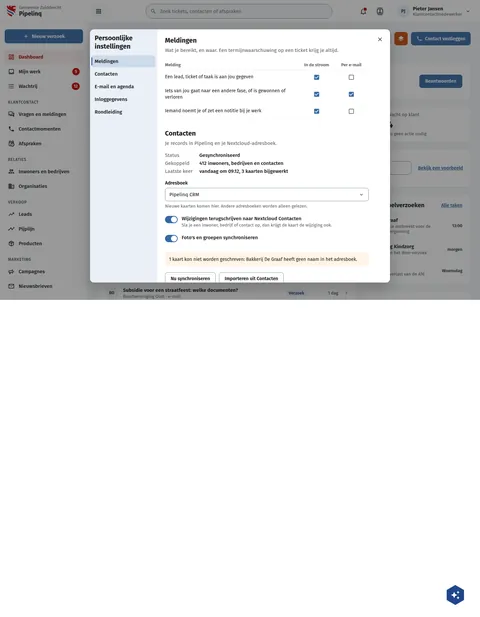
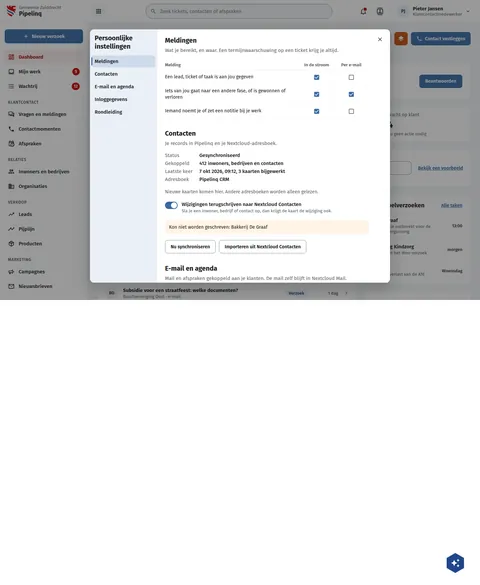
fix(screens): PqPersoonlijk's Contacts section as pipelinq builds it
The addressbook is a fact, not a choice; the photos-and-groups switch goes
(no such sync exists); the failed-card note and the import button read as
the section does.

Assisted-by: ClaudeCode:claude-opus-5-5

Changed region(s): [[0.0, 0.0, 1.0, 0.5231], [0.7188, 0.0923, 0.75, 0.1846], [0.9375, 0.9231, 0.9688, 0.9846]]

diff --git a/preview/screens/boards/PqPersoonlijk.html b/preview/screens/boards/PqPersoonlijk.html
@@ -280,7 +280,7 @@ a{color:var(--sc-primary, #3669a5)}a:hover{color:var(--sc-primary-deep, #234a78)
             
             
             
-              <dl style="margin: 0; display: grid; grid-template-columns: max-content 1fr; gap: 6px 20px; font-size: 15px"><dt style="color: var(--sc-work-muted, #5e6168)">Status</dt><dd style="margin: 0; font-weight: 500">Gesynchroniseerd</dd><dt style="color: var(--sc-work-muted, #5e6168)">Gekoppeld</dt><dd style="margin: 0; font-weight: 500">412 inwoners, bedrijven en contacten</dd><dt style="color: var(--sc-work-muted, #5e6168)">Laatste keer</dt><dd style="margin: 0; font-weight: 500">vandaag om 09.12, 3 kaarten bijgewerkt</dd></dl>
+              <dl style="margin: 0; display: grid; grid-template-columns: max-content 1fr; gap: 6px 20px; font-size: 15px"><dt style="color: var(--sc-work-muted, #5e6168)">Status</dt><dd style="margin: 0; font-weight: 500">Gesynchroniseerd</dd><dt style="color: var(--sc-work-muted, #5e6168)">Gekoppeld</dt><dd style="margin: 0; font-weight: 500">412 inwoners, bedrijven en contacten</dd><dt style="color: var(--sc-work-muted, #5e6168)">Laatste keer</dt><dd style="margin: 0; font-weight: 500">7 okt 2026, 09:12, 3 kaarten bijgewerkt</dd><dt style="color: var(--sc-work-muted, #5e6168)">Adresboek</dt><dd style="margin: 0; font-weight: 500">Pipelinq CRM</dd></dl>
             
             
             
@@ -289,7 +289,6 @@ a{color:var(--sc-primary, #3669a5)}a:hover{color:var(--sc-primary-deep, #234a78)
             
             
             
-              <div style="display: flex; flex-direction: column; gap: 6px"><span style="font-size: 14px; font-weight: 600">Adresboek</span><div role="combobox" aria-expanded="false" aria-disabled="False" aria-label="Adresboek" style="display: flex; align-items: center; justify-content: space-between; gap: 8px; height: 40px; box-sizing: border-box; padding: 0 12px; border: 1px solid var(--sc-work-field, #828a95); border-radius: 8px; background: #ffffff; font-size: 15px"><span style="overflow: hidden; text-overflow: ellipsis; white-space: nowrap">Pipelinq CRM</span><svg width="18" height="18" viewbox="0 0 24 24" fill="#3d4047" aria-hidden="true" style="flex: none;fill:var(--sc-work-text, #3d4047)"><path d="M7.41,8.58L12,13.17L16.59,8.58L18,10L12,16L6,10L7.41,8.58Z"></path></svg></div><span style="font-size: 13px; color: var(--sc-work-muted, #5e6168); line-height: 1.45">Nieuwe kaarten komen hier. Andere adresboeken worden alleen gelezen.</span></div>
             
             
             
@@ -298,6 +297,7 @@ a{color:var(--sc-primary, #3669a5)}a:hover{color:var(--sc-primary-deep, #234a78)
             
             
             
+              <p style="margin: 0; padding: 10px 12px; border-radius: 8px; font-size: 14px; line-height: 1.5; padding: 0; color: var(--sc-work-muted, #5e6168)">Nieuwe kaarten komen hier. Andere adresboeken worden alleen gelezen.</p>
             
             
           
@@ -317,7 +317,6 @@ a{color:var(--sc-primary, #3669a5)}a:hover{color:var(--sc-primary-deep, #234a78)
             
           
             
-              <label style="min-height: 36px; display: flex; gap: 12px; align-items: flex-start"><input type="checkbox" role="switch" checked style="position: absolute; opacity: 0; width: 1px; height: 1px"><span aria-hidden="true" style="flex: none; display: inline-flex; align-items: center; width: 38px; height: 22px; border-radius: 11px; margin-top: 1px; background: var(--sc-primary, #3669a5); justify-content: flex-end"><span style="width: 18px; height: 18px; border-radius: 9px; background: #ffffff; margin: 0 2px"></span></span><span style="display: flex; flex-direction: column; gap: 2px"><span style="font-size: 15px; font-weight: 500">Foto's en groepen synchroniseren</span></span></label>
             
             
             
@@ -328,21 +327,7 @@ a{color:var(--sc-primary, #3669a5)}a:hover{color:var(--sc-primary-deep, #234a78)
             
             
             
-            
-            
-          
-            
-            
-            
-            
-            
-            
-            
-            
-            
-            
-            
-              <p style="margin: 0; padding: 10px 12px; border-radius: 8px; font-size: 14px; line-height: 1.5; background: #fff4e5; color: var(--sc-work-ink, #1b1c1d)">1 kaart kon niet worden geschreven: Bakkerij De Graaf heeft geen naam in het adresboek.</p>
+              <p style="margin: 0; padding: 10px 12px; border-radius: 8px; font-size: 14px; line-height: 1.5; background: #fff4e5; color: var(--sc-work-ink, #1b1c1d)">Kon niet worden geschreven: Bakkerij De Graaf</p>
             
             
           
@@ -358,7 +343,7 @@ a{color:var(--sc-primary, #3669a5)}a:hover{color:var(--sc-primary-deep, #234a78)
             
             
             
-              <div style="display: flex; flex-wrap: wrap; gap: 10px"><button type="button" style="display: inline-flex; align-items: center; height: 40px; box-sizing: border-box; padding: 0 16px; border-radius: 8px; font: 600 14px var(--sc-font, 'Fira Sans'), sans-serif; white-space: nowrap; border: 1px solid var(--sc-work-field, #828a95); background: #ffffff; color: var(--sc-work-ink, #1b1c1d)">Nu synchroniseren</button><button type="button" style="display: inline-flex; align-items: center; height: 40px; box-sizing: border-box; padding: 0 16px; border-radius: 8px; font: 600 14px var(--sc-font, 'Fira Sans'), sans-serif; white-space: nowrap; border: 1px solid var(--sc-work-field, #828a95); background: #ffffff; color: var(--sc-work-ink, #1b1c1d)">Importeren uit Contacten</button></div>
+              <div style="display: flex; flex-wrap: wrap; gap: 10px"><button type="button" style="display: inline-flex; align-items: center; height: 40px; box-sizing: border-box; padding: 0 16px; border-radius: 8px; font: 600 14px var(--sc-font, 'Fira Sans'), sans-serif; white-space: nowrap; border: 1px solid var(--sc-work-field, #828a95); background: #ffffff; color: var(--sc-work-ink, #1b1c1d)">Nu synchroniseren</button><button type="button" style="display: inline-flex; align-items: center; height: 40px; box-sizing: border-box; padding: 0 16px; border-radius: 8px; font: 600 14px var(--sc-font, 'Fira Sans'), sans-serif; white-space: nowrap; border: 1px solid var(--sc-work-field, #828a95); background: #ffffff; color: var(--sc-work-ink, #1b1c1d)">Importeren uit Nextcloud Contacten</button></div>
             
           
         </div>

diff --git a/screens-src/zuiddrecht/PqPersoonlijk.dc.html b/screens-src/zuiddrecht/PqPersoonlijk.dc.html
@@ -37,12 +37,11 @@ class Component extends DCLogic {
         ] }
       ] },
       { name: 'Contacten', desc: 'Je records in Pipelinq en je Nextcloud-adresboek.', rows: [
-        { facts: [['Status', 'Gesynchroniseerd'], ['Gekoppeld', '412 inwoners, bedrijven en contacten'], ['Laatste keer', 'vandaag om 09.12, 3 kaarten bijgewerkt']] },
-        { select: 'Adresboek', value: 'Pipelinq CRM', hint: 'Nieuwe kaarten komen hier. Andere adresboeken worden alleen gelezen.' },
+        { facts: [['Status', 'Gesynchroniseerd'], ['Gekoppeld', '412 inwoners, bedrijven en contacten'], ['Laatste keer', '7 okt 2026, 09:12, 3 kaarten bijgewerkt'], ['Adresboek', 'Pipelinq CRM']] },
+        { note: 'Nieuwe kaarten komen hier. Andere adresboeken worden alleen gelezen.', tone: 'plain' },
         { switch: 'Wijzigingen terugschrijven naar Nextcloud Contacten', hint: 'Sla je een inwoner, bedrijf of contact op, dan krijgt de kaart de wijziging ook.', on: true },
-        { switch: "Foto's en groepen synchroniseren", on: true },
-        { note: '1 kaart kon niet worden geschreven: Bakkerij De Graaf heeft geen naam in het adresboek.', tone: 'warn' },
-        { buttons: [['Nu synchroniseren', ''], ['Importeren uit Contacten', '']] }
+        { note: 'Kon niet worden geschreven: Bakkerij De Graaf', tone: 'warn' },
+        { buttons: [['Nu synchroniseren', ''], ['Importeren uit Nextcloud Contacten', '']] }
       ] },
       { name: 'E-mail en agenda', desc: 'Mail en afspraken gekoppeld aan je klanten. De mail zelf blijft in Nextcloud Mail.', rows: [
         { switch: 'E-mailsynchronisatie aanzetten', hint: 'Mail uit het gekozen account komt bij het contact met hetzelfde e-mailadres.', on: true },
